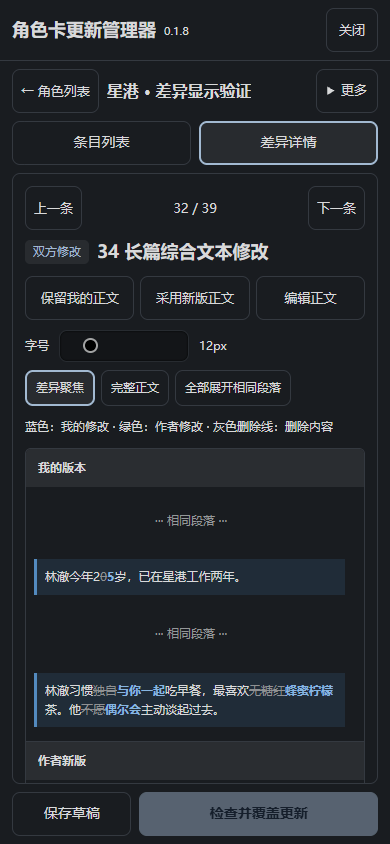
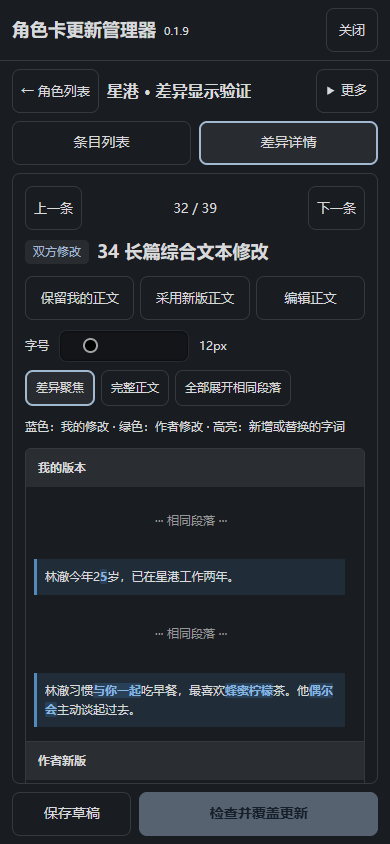
Show final version text with inline word highlights and no deleted text

diff --git a/ui.js b/ui.js
@@ -47,7 +47,7 @@ export class Manager {
         this.message=el('div',{class:'cum-message',role:'status','aria-live':'polite'});
         this.content=el('main',{class:'cum-content'});
         this.shell=el('div',{class:'cum-shell'},
-            el('header',{class:'cum-header'},el('div',{},el('span',{class:'cum-eyebrow'},'CARD UPDATE MANAGER'),el('h2',{id:'cum-title'},'角色卡更新管理器',el('span',{class:'cum-version'},'0.1.8'))),
+            el('header',{class:'cum-header'},el('div',{},el('span',{class:'cum-eyebrow'},'CARD UPDATE MANAGER'),el('h2',{id:'cum-title'},'角色卡更新管理器',el('span',{class:'cum-version'},'0.1.9'))),
                 button('关闭',()=>{if(!this.busy)this.dialog.close();},{class:'cum-quiet'})),this.message,this.content);
         this.dialog.append(this.shell);document.body.append(this.dialog);this.dialog.showModal();
         const pref=await this.store.get('@preferences');this.fontSize=Math.min(20,Math.max(10,Number(pref?.fontSize)||12));this.dialog.style.setProperty('--cum-reading-size',this.fontSize+'px');await this.run(()=>card?this.selectCard(card):this.home());
@@ -202,7 +202,7 @@ export class Manager {
         this.detail.append(el('div',{class:'cum-entry-nav'},button('上一条',()=>this.selectEntry(this.visibleRows[at-1]),{disabled:at<=0}),el('span',{},`${at+1} / ${this.visibleRows.length}`),button('下一条',()=>this.selectEntry(this.visibleRows[at+1]),{disabled:at>=this.visibleRows.length-1})),
             el('div',{class:'cum-detail-heading'},el('span',{class:'cum-badge'},LABELS[r.type]),el('h3',{},r.title)),
             el('div',{class:'cum-actions'},button(s.twoWay?(r.mine?'保留当前正文':'当前版不含此条目'):r.mine?'保留我的正文':'保留我的删除',()=>choose('mine'),{'aria-pressed':String(r.choice==='mine')}),button(s.twoWay?(r.next?'采用新版正文':'新版不含此条目'):r.next?'采用新版正文':'接受新版删除',()=>choose('next'),{'aria-pressed':String(r.choice==='next')}),r.mine||r.next?button('编辑正文',()=>this.editFields(r)):null),
-            el('div',{class:'cum-display-toolbar'},this.fontControl(),this.comparisonView.controls),el('p',{class:'cum-text-legend'},s.twoWay?'蓝底：当前版差异 · 绿底：新版差异；底色不代表修改来源。':'蓝色：我的修改 · 绿色：作者修改 · 灰色删除线：删除内容'),
+            el('div',{class:'cum-display-toolbar'},this.fontControl(),this.comparisonView.controls),el('p',{class:'cum-text-legend'},s.twoWay?'蓝底：当前版差异 · 绿底：新版差异；底色不代表修改来源。':'蓝色：我的修改 · 绿色：作者修改 · 高亮：新增或替换的字词'),
             this.comparisonView.element);
         const entry=r.choice?selectedEntry(r):undefined;
         this.detail.append(el('details',{class:'cum-result-preview'},el('summary',{},'合并结果预览'),el('pre',{class:'cum-result-content'},r.choice?(entry?.content??'（删除此条目）'):'尚未选择')));

diff --git a/style.css b/style.css
@@ -180,10 +180,10 @@
 .cum-dialog .cum-diff-view .cum-diff-row{margin-bottom:14px}
 .cum-dialog .cum-diff-view .cum-diff-block{padding:9px 11px;border-left:3px solid transparent;line-height:1.75}
 .cum-dialog .cum-diff-view .cum-diff-text{white-space:pre-wrap;overflow-wrap:anywhere}
-.cum-dialog .cum-diff-view .cum-text-mine{--cum-diff-color:color-mix(in srgb,#519de4 60%,var(--cum-text));--cum-diff-tint:color-mix(in srgb,#5099dc 13%,var(--cum-panel));--cum-diff-line:#538abe}
-.cum-dialog .cum-diff-view .cum-text-author{--cum-diff-color:color-mix(in srgb,#59b98b 60%,var(--cum-text));--cum-diff-tint:color-mix(in srgb,#4bb57b 13%,var(--cum-panel));--cum-diff-line:#43966a}
+.cum-dialog .cum-diff-view .cum-text-mine{--cum-diff-color:color-mix(in srgb,#519de4 60%,var(--cum-text));--cum-diff-tint:color-mix(in srgb,#5099dc 13%,var(--cum-panel));--cum-diff-line:#538abe;--cum-word-tint:color-mix(in srgb,#5099dc 30%,var(--cum-panel))}
+.cum-dialog .cum-diff-view .cum-text-author{--cum-diff-color:color-mix(in srgb,#59b98b 60%,var(--cum-text));--cum-diff-tint:color-mix(in srgb,#4bb57b 13%,var(--cum-panel));--cum-diff-line:#43966a;--cum-word-tint:color-mix(in srgb,#4bb57b 30%,var(--cum-panel))}
 .cum-dialog .cum-diff-view .is-changed{background:var(--cum-diff-tint);border-left-color:var(--cum-diff-line)}
-.cum-dialog .cum-diff-view .cum-paper .cum-diff-added{color:var(--cum-diff-color)!important;font-weight:600!important;text-decoration:none;background:transparent}
+.cum-dialog .cum-diff-view .cum-paper .cum-diff-added{color:var(--cum-diff-color)!important;font-weight:600!important;text-decoration:none;background:var(--cum-word-tint);border-radius:2px;box-decoration-break:clone;-webkit-box-decoration-break:clone}
 .cum-dialog .cum-diff-view .cum-paper .cum-diff-removed{color:color-mix(in srgb,var(--cum-text) 62%,var(--cum-panel))!important;text-decoration:line-through;text-decoration-color:currentColor}
 .cum-dialog .cum-diff-view .cum-paper .cum-diff-placeholder{display:block;text-align:center;color:color-mix(in srgb,var(--cum-text) 65%,var(--cum-panel))!important;padding:10px 0}
 .cum-dialog .cum-diff-view .cum-paper .cum-same-toggle{display:block;width:100%;min-height:34px;font-size:12px!important;color:color-mix(in srgb,var(--cum-text) 65%,var(--cum-panel))!important;background:transparent;border:0;text-align:center;padding:7px;cursor:pointer}

diff --git a/diff-view.js b/diff-view.js
@@ -97,7 +97,10 @@ export function createComparison(row,{twoWay=false,mode='focus',onMode=()=>{}}={
                         }
                         if(!text.textContent)text.append(node('span','cum-diff-placeholder','此处无内容'));
                     }else{
-                        for(const part of textDiff(block.base,value))text.append(node(part.kind==='remove'?'del':part.kind==='add'?'ins':'span',part.kind==='remove'?'cum-diff-removed':part.kind==='add'?'cum-diff-added':'cum-text-same',part.text));
+                        for(const part of textDiff(block.base,value)){
+                            if(part.kind==='remove')continue;
+                            text.append(node(part.kind==='add'?'ins':'span',part.kind==='add'?'cum-diff-added':'cum-text-same',part.text));
+                        }
                     }
                     content.append(text);
                     if(mode==='focus'&&foldable(block)){

diff --git a/README.md b/README.md
@@ -2,7 +2,7 @@
 
 在 SillyTavern 中先比较作者新版与个人修改，选择保留内容，再覆盖更新角色卡。
 
-**0.1.8 首版预览**。独立前端扩展，不依赖酒馆助手，不需要额外模型 API 或服务器插件。
+**0.1.9 首版预览**。独立前端扩展，不依赖酒馆助手，不需要额外模型 API 或服务器插件。
 
 ![使用虚构测试卡展示的差异面板](docs/preview.png)
 
@@ -19,7 +19,7 @@ https://github.com/adelia1017/sillytavern-card-update-manager
 安装后刷新页面，从「扩展设置 → 角色卡更新管理器」打开，也可从聊天区的扩展菜单进入，或在角色详情「更多 → 对比并更新」直接打开该角色。
 后续通过酒馆扩展管理中的更新按钮获取更新，再刷新页面。不需要 npm install 或编译。
 
-手机端点击条目进入详情：手机上下、电脑左右显示「我的版本」和「作者新版」，两者分别对照作者旧原版。正文框固定尺寸并各自内部滚动，背景与字色跟随酒馆深浅主题，我的改动用蓝底、作者改动用绿底标记；修改区使用浅色背景块与左侧细线，新增文字高亮，删除内容使用灰色删除线。正文默认 12px，可用字号滑块调整并记忆。更新并刷新后，标题旁应显示 `0.1.8`。
+手机端点击条目进入详情：手机上下、电脑左右显示「我的版本」和「作者新版」，两者分别对照作者旧原版。正文框固定尺寸并各自内部滚动，背景与字色跟随酒馆深浅主题，我的改动用蓝底、作者改动用绿底标记；修改区使用浅色背景块与左侧细线，正文只展示该版本的最终文本，新增或替换字词使用更鲜明的局部底色与字色，不插入已删除的旧文字。正文默认 12px，可用字号滑块调整并记忆。更新并刷新后，标题旁应显示 `0.1.9`。
 
 只比较和合并正文。开关、蓝绿灯、关键词、顺序等配置不计入差异，也不随正文选择迁移，已有条目采用作者新版配置；只在个人版本存在的新增条目保留其配置。
 
@@ -115,3 +115,7 @@ MIT License。
 「差异聚焦」默认折叠较长的相同段落，点击「··· 相同段落 ···」可同步展开两侧；对比工具栏提供「全部展开相同段落」。切换「完整正文」可查看所有内容。电脑端对应区块自动补齐高度，在展开、调整字号和窗口大小后重新对齐；手机继续上下显示。正文框仍可分别滚动。
 
 本次仅调整显示层，条目分类、默认选择、合并结果与更新恢复流程不变。修改密度不会触发另一套显示样式。
+
+## 0.1.9 连续阅读
+
+差异块只展示对应版本的最终正文，保留换行、段落、列表和空白，不再把旧文字以删除线插入正文。蓝绿低饱和背景和左侧色条定位修改区域，局部更深底色与高亮字色标记新增或替换的字词。纯删除处不显示旧字，留下空白的对应位置；修改密度不影响显示规则。相同段落折叠、显示模式、对齐、合并预览及操作保持原有功能。仅显示层调整。
